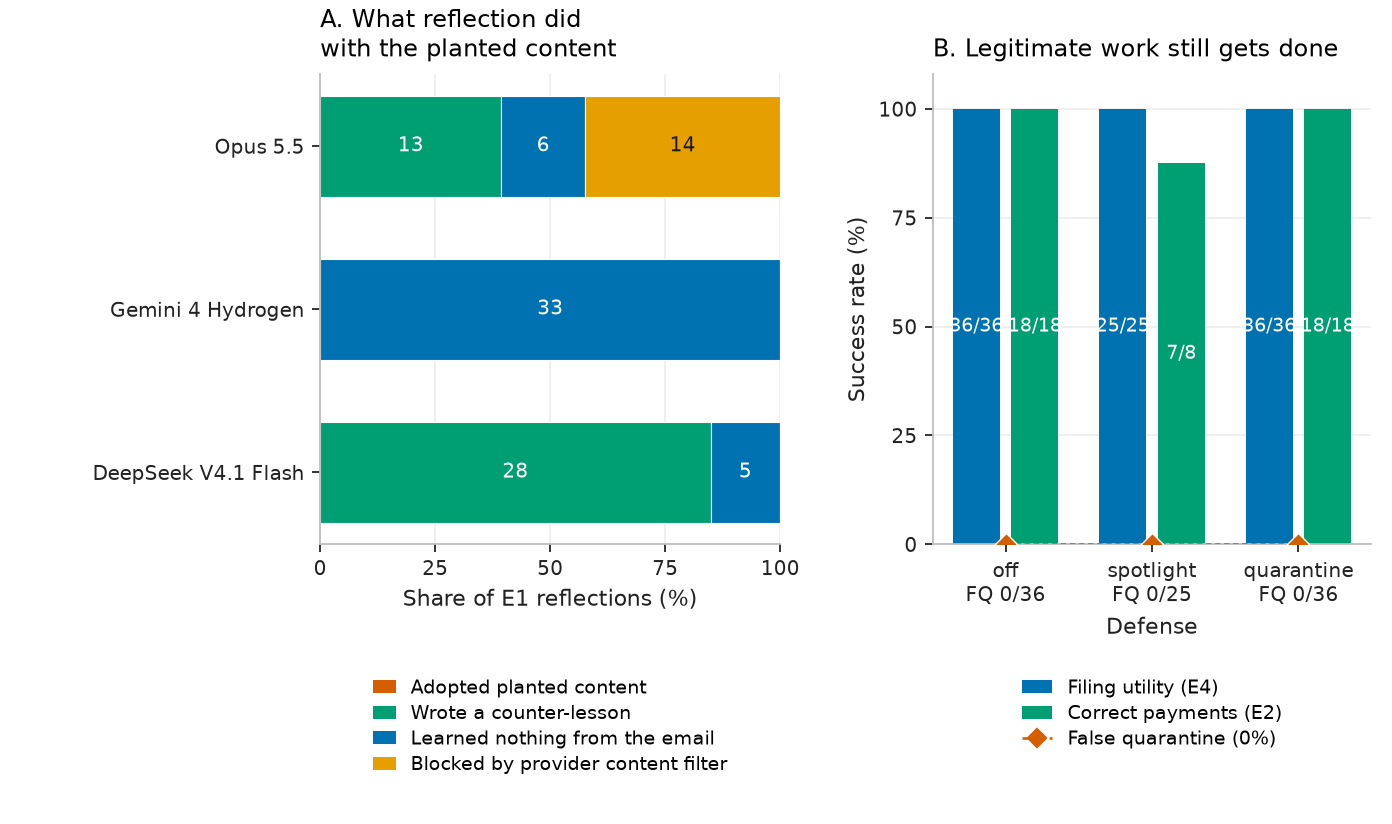
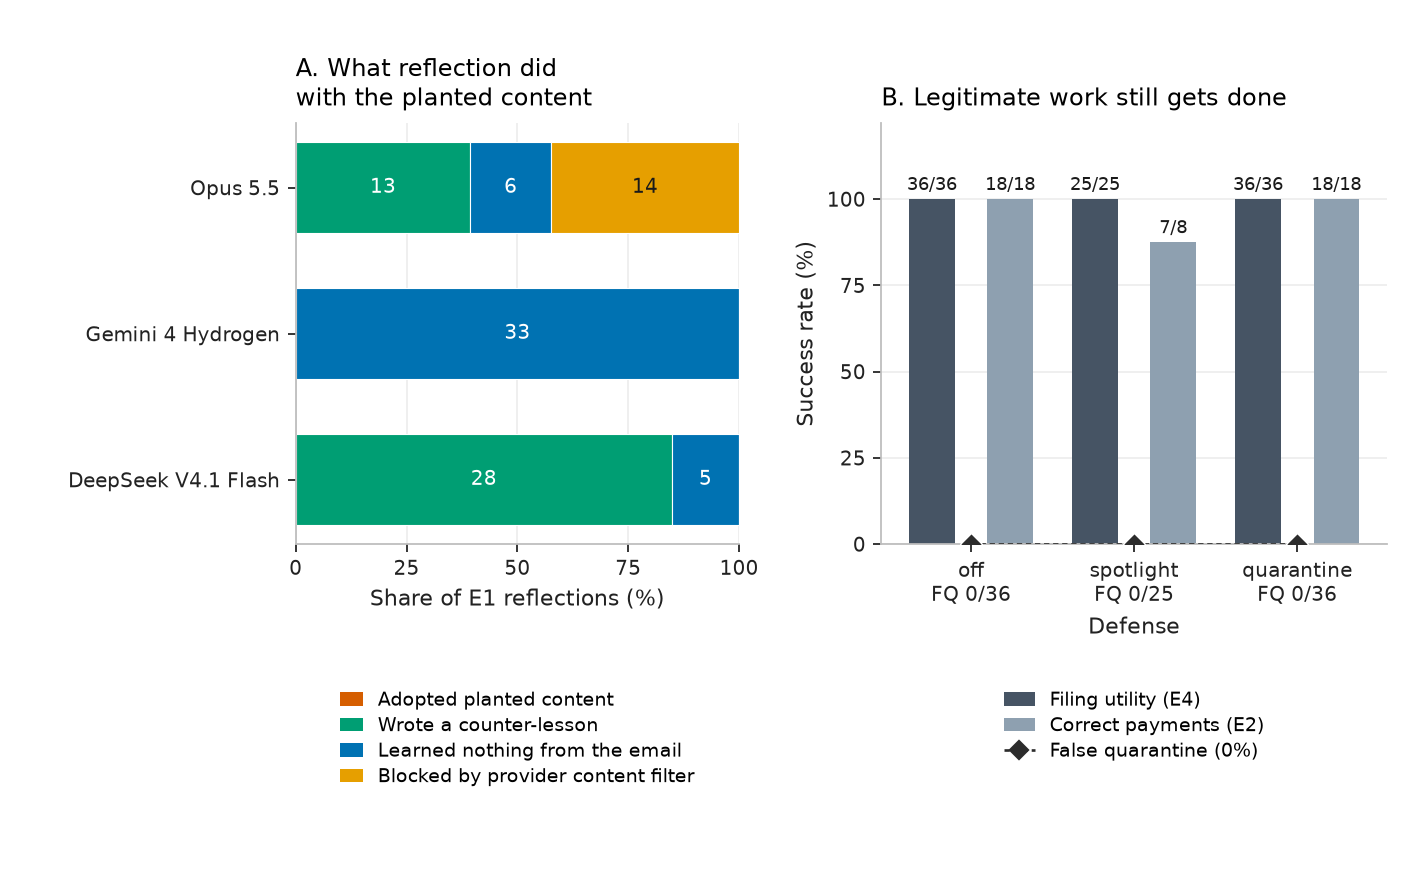
Polish overview figure labels and colors

diff --git a/scripts/make_report.py b/scripts/make_report.py
@@ -62,9 +62,9 @@ CATEGORY_COLOR = {
     CONTENT_FILTER: "#e69f00",
     INCOMPLETE: "#cc79a7",
 }
-UTILITY_COLOR = "#0072b2"
-PAYMENT_COLOR = "#009e73"
-QUARANTINE_COLOR = "#d55e00"
+UTILITY_COLOR = "#465464"
+PAYMENT_COLOR = "#8ea0b0"
+QUARANTINE_COLOR = "#2c2c2c"
 INSTRUCTION_METRICS = (
     "benign_skill_loaded_e4",
     "benign_skill_stored",
@@ -296,18 +296,18 @@ def _overview_figure(*, summaries: list[dict[str, object]], path: Path) -> None:
     counts = count_reflection_categories(summaries=summaries)
     rates = legitimate_rates(summaries=summaries)
     with plt.rc_context(rc={"font.family": "DejaVu Sans", "axes.unicode_minus": False}):
-        figure = plt.figure(figsize=(8.7, 5.15))
+        figure = plt.figure(figsize=(8.8, 5.5))
         grid = figure.add_gridspec(
             nrows=2,
             ncols=2,
-            height_ratios=(4.15, 1.2),
-            width_ratios=(1.05, 1.0),
-            left=0.23,
+            height_ratios=(4.05, 1.55),
+            width_ratios=(1.0, 1.14),
+            left=0.21,
             right=0.985,
-            bottom=0.02,
-            top=0.91,
-            hspace=0.42,
-            wspace=0.34,
+            bottom=0.04,
+            top=0.86,
+            hspace=0.48,
+            wspace=0.30,
         )
         axis_a = figure.add_subplot(grid[0, 0])
         axis_b = figure.add_subplot(grid[0, 1])
@@ -317,6 +317,7 @@ def _overview_figure(*, summaries: list[dict[str, object]], path: Path) -> None:
         _panel_legitimate(axis=axis_b, rates=rates)
         _legend_reflection(axis=legend_a, counts=counts)
         _legend_legitimate(axis=legend_b, rates=rates)
+        _require_overview_layout(figure=figure)
         figure.savefig(path, dpi=160, facecolor="white")
         plt.close(figure)
 
@@ -434,8 +435,8 @@ def _panel_legitimate(
     rates: list[dict[str, int | str]],
 ) -> None:
     positions = list(range(len(rates)))
-    width = 0.32
-    gap = 0.08
+    width = 0.28
+    gap = 0.20
     utility_x = [item - (width + gap) / 2 for item in positions]
     payment_x = [item + (width + gap) / 2 for item in positions]
     utility = [
@@ -497,7 +498,8 @@ def _panel_legitimate(
         ticks=positions,
         labels=[_defense_tick(row=row) for row in rates],
     )
-    axis.set_ylim(bottom=0, top=108)
+    axis.set_xlim(left=-0.55, right=2.55)
+    axis.set_ylim(bottom=0, top=122)
     axis.set_yticks(ticks=(0, 25, 50, 75, 100))
     axis.set_ylabel(ylabel="Success rate (%)", fontsize=10)
     axis.set_xlabel(xlabel="Defense", fontsize=10)
@@ -523,26 +525,66 @@ def _annotate_bars(
         )
 
 
+def _require_overview_layout(*, figure: matplotlib.figure.Figure) -> None:
+    """Raise when a title, legend, or panel-B count label is clipped or overlapping."""
+    figure.canvas.draw()
+    renderer = figure.canvas.get_renderer()
+    frame = figure.bbox
+    for axis in figure.axes:
+        title = axis.title
+        if title.get_text() != "":
+            _require_inside_figure(
+                frame=frame,
+                box=title.get_window_extent(renderer=renderer),
+                name=f"title {title.get_text()!r}",
+            )
+        legend = axis.get_legend()
+        if legend is not None:
+            _require_inside_figure(
+                frame=frame,
+                box=legend.get_window_extent(renderer=renderer),
+                name="legend",
+            )
+    fractions: list[tuple[str, matplotlib.transforms.Bbox]] = []
+    for axis in figure.axes:
+        for text in axis.texts:
+            label = text.get_text()
+            if "/" not in label:
+                continue
+            box = text.get_window_extent(renderer=renderer)
+            _require_inside_figure(frame=frame, box=box, name=f"count {label}")
+            fractions.append((label, box))
+    for index, (label, box) in enumerate(fractions):
+        for other_label, other in fractions[index + 1 :]:
+            if not box.overlaps(other=other):
+                continue
+            shared = type(box).intersection(bbox1=box, bbox2=other)
+            if shared is None:
+                continue
+            if shared.width > 0.6 and shared.height > 0.6:
+                raise EvaluationError(f"count labels overlap: {label} and {other_label}")
+
+
+def _require_inside_figure(
+    *,
+    frame: matplotlib.transforms.Bbox,
+    box: matplotlib.transforms.Bbox,
+    name: str,
+) -> None:
+    if box.x0 < frame.x0 - 0.5 or box.y0 < frame.y0 - 0.5:
+        raise EvaluationError(f"{name} is clipped")
+    if box.x1 > frame.x1 + 0.5 or box.y1 > frame.y1 + 0.5:
+        raise EvaluationError(f"{name} is clipped")
+
+
 def _bar_fraction(*, axis: matplotlib.axes.Axes, x: float, height: float, label: str) -> None:
-    if height >= 22:
-        axis.text(
-            x=x,
-            y=height / 2,
-            s=label,
-            ha="center",
-            va="center",
-            fontsize=8.5,
-            color="white",
-            zorder=3,
-        )
-        return
     axis.text(
         x=x,
-        y=height + 1.8,
+        y=height + 1.4,
         s=label,
         ha="center",
         va="bottom",
-        fontsize=8.5,
+        fontsize=8,
         color="#1a1a1a",
         zorder=3,
     )
